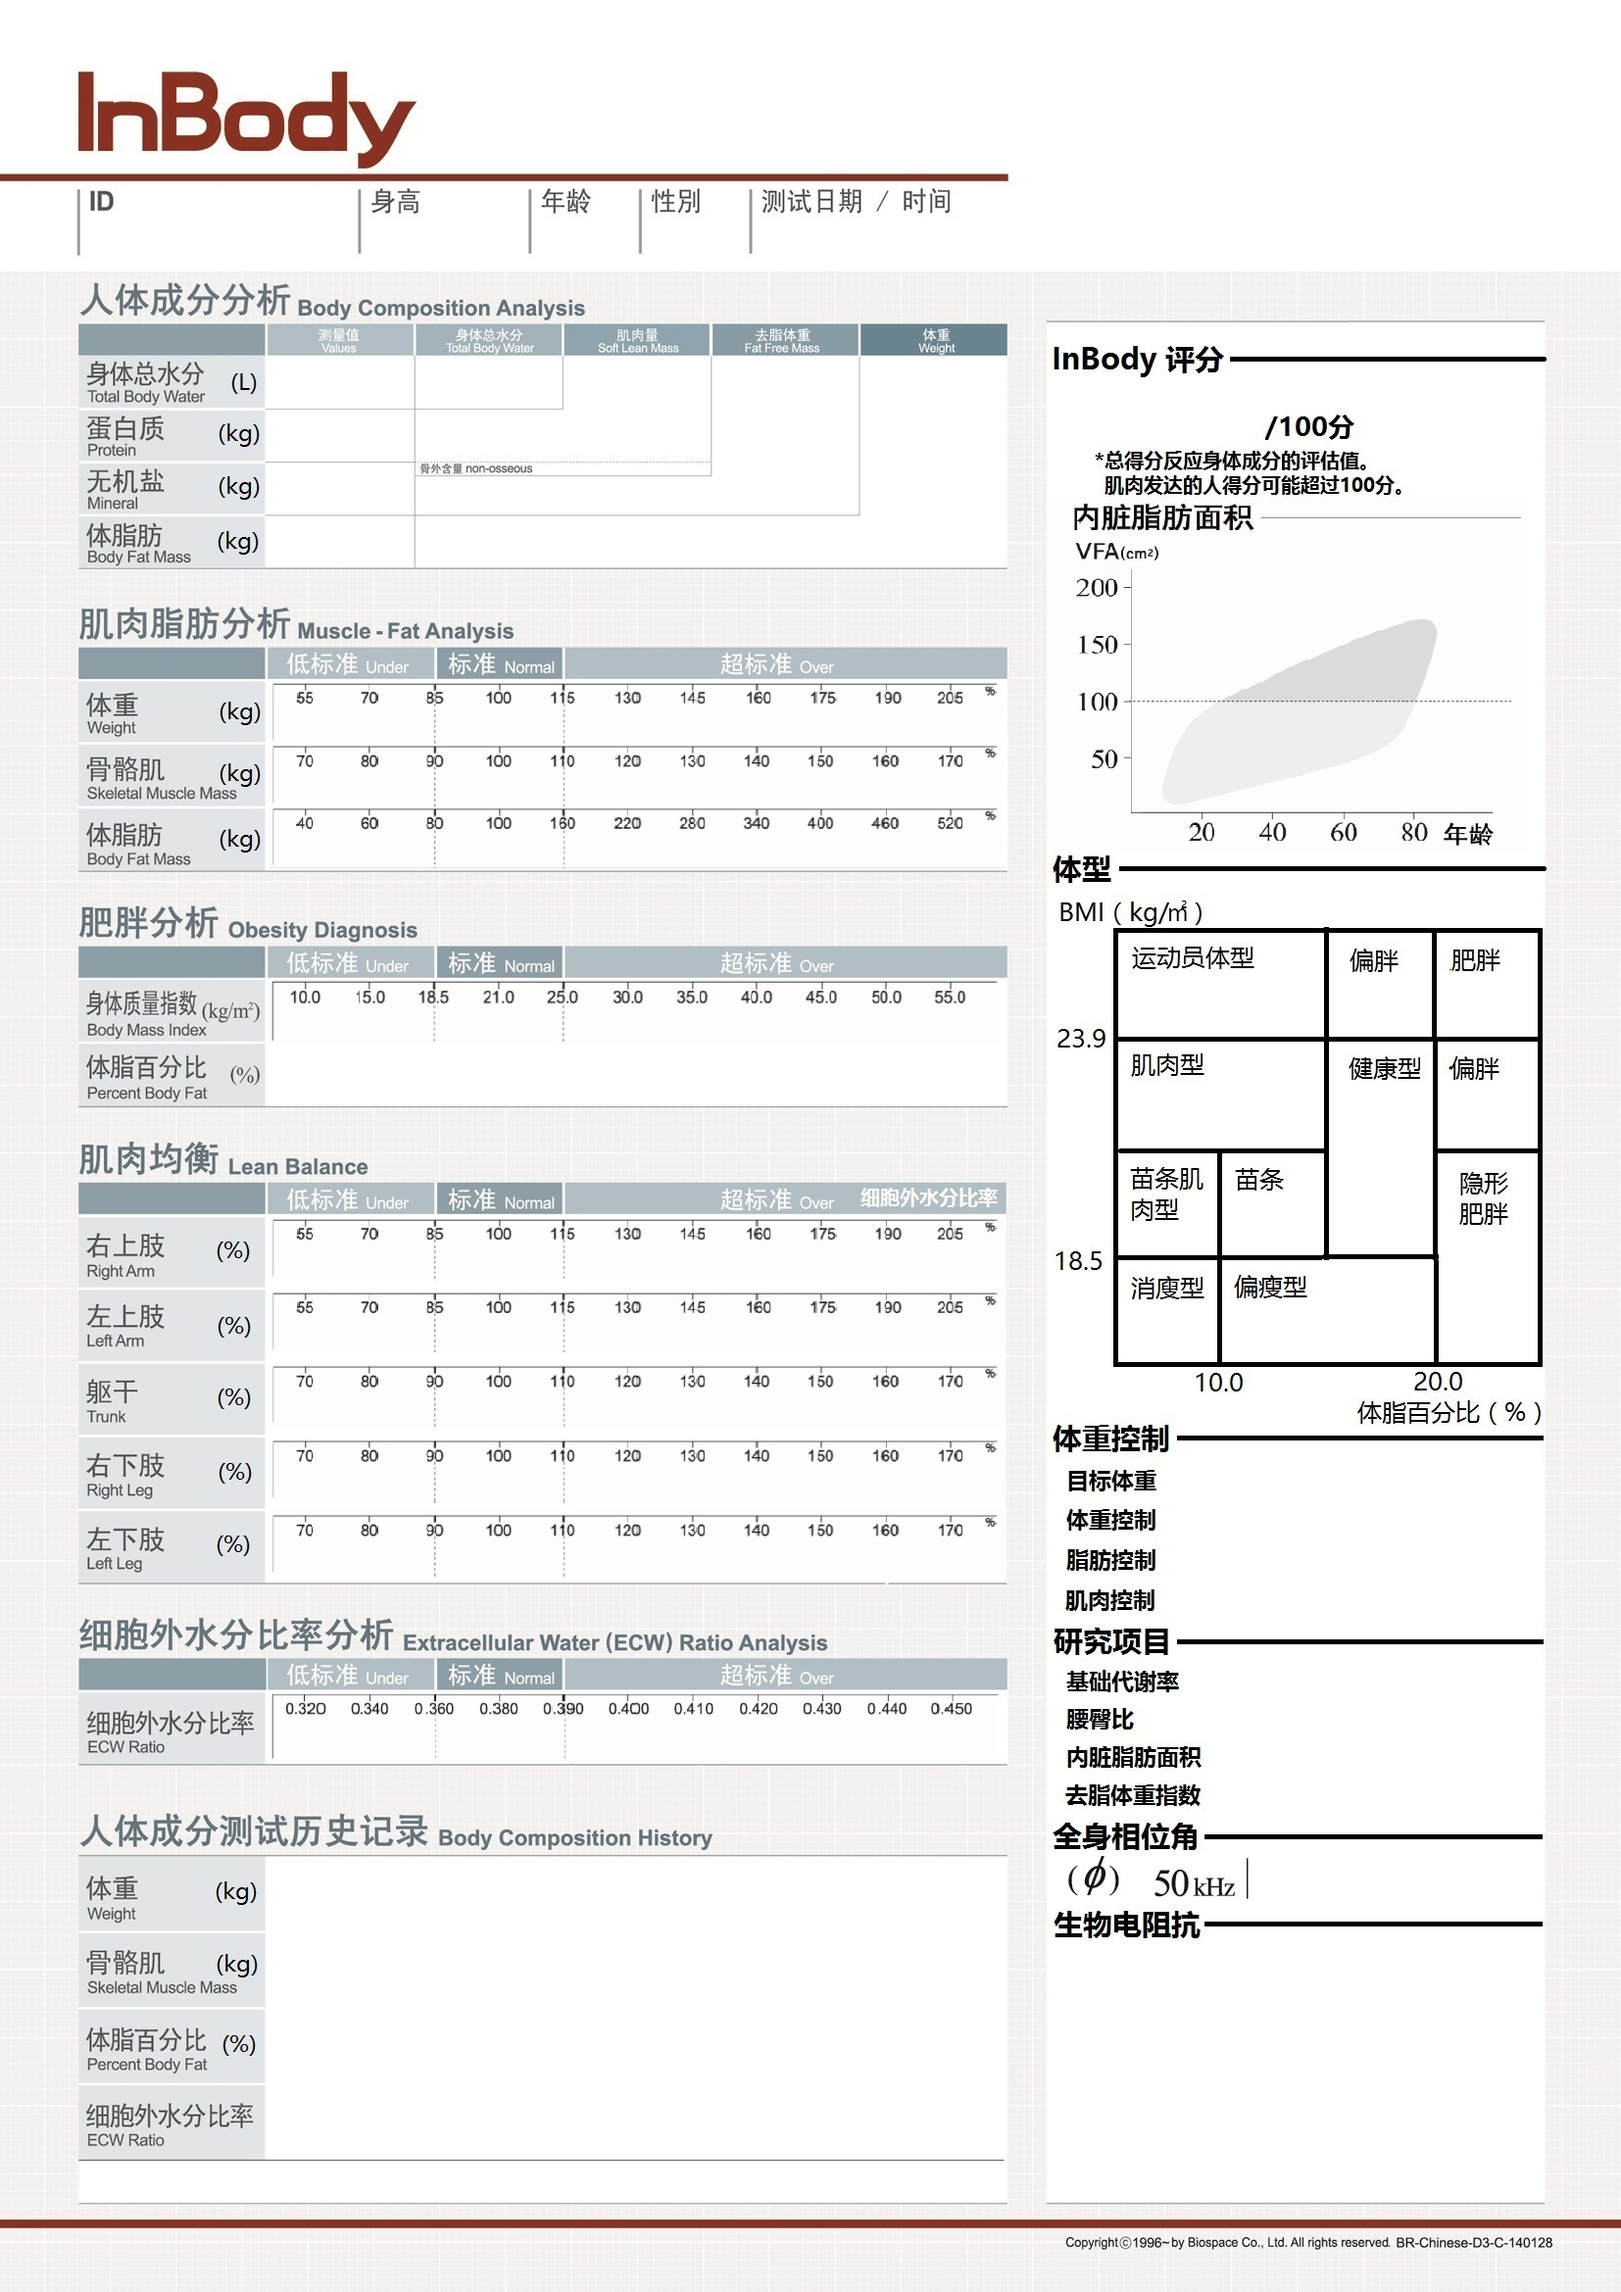
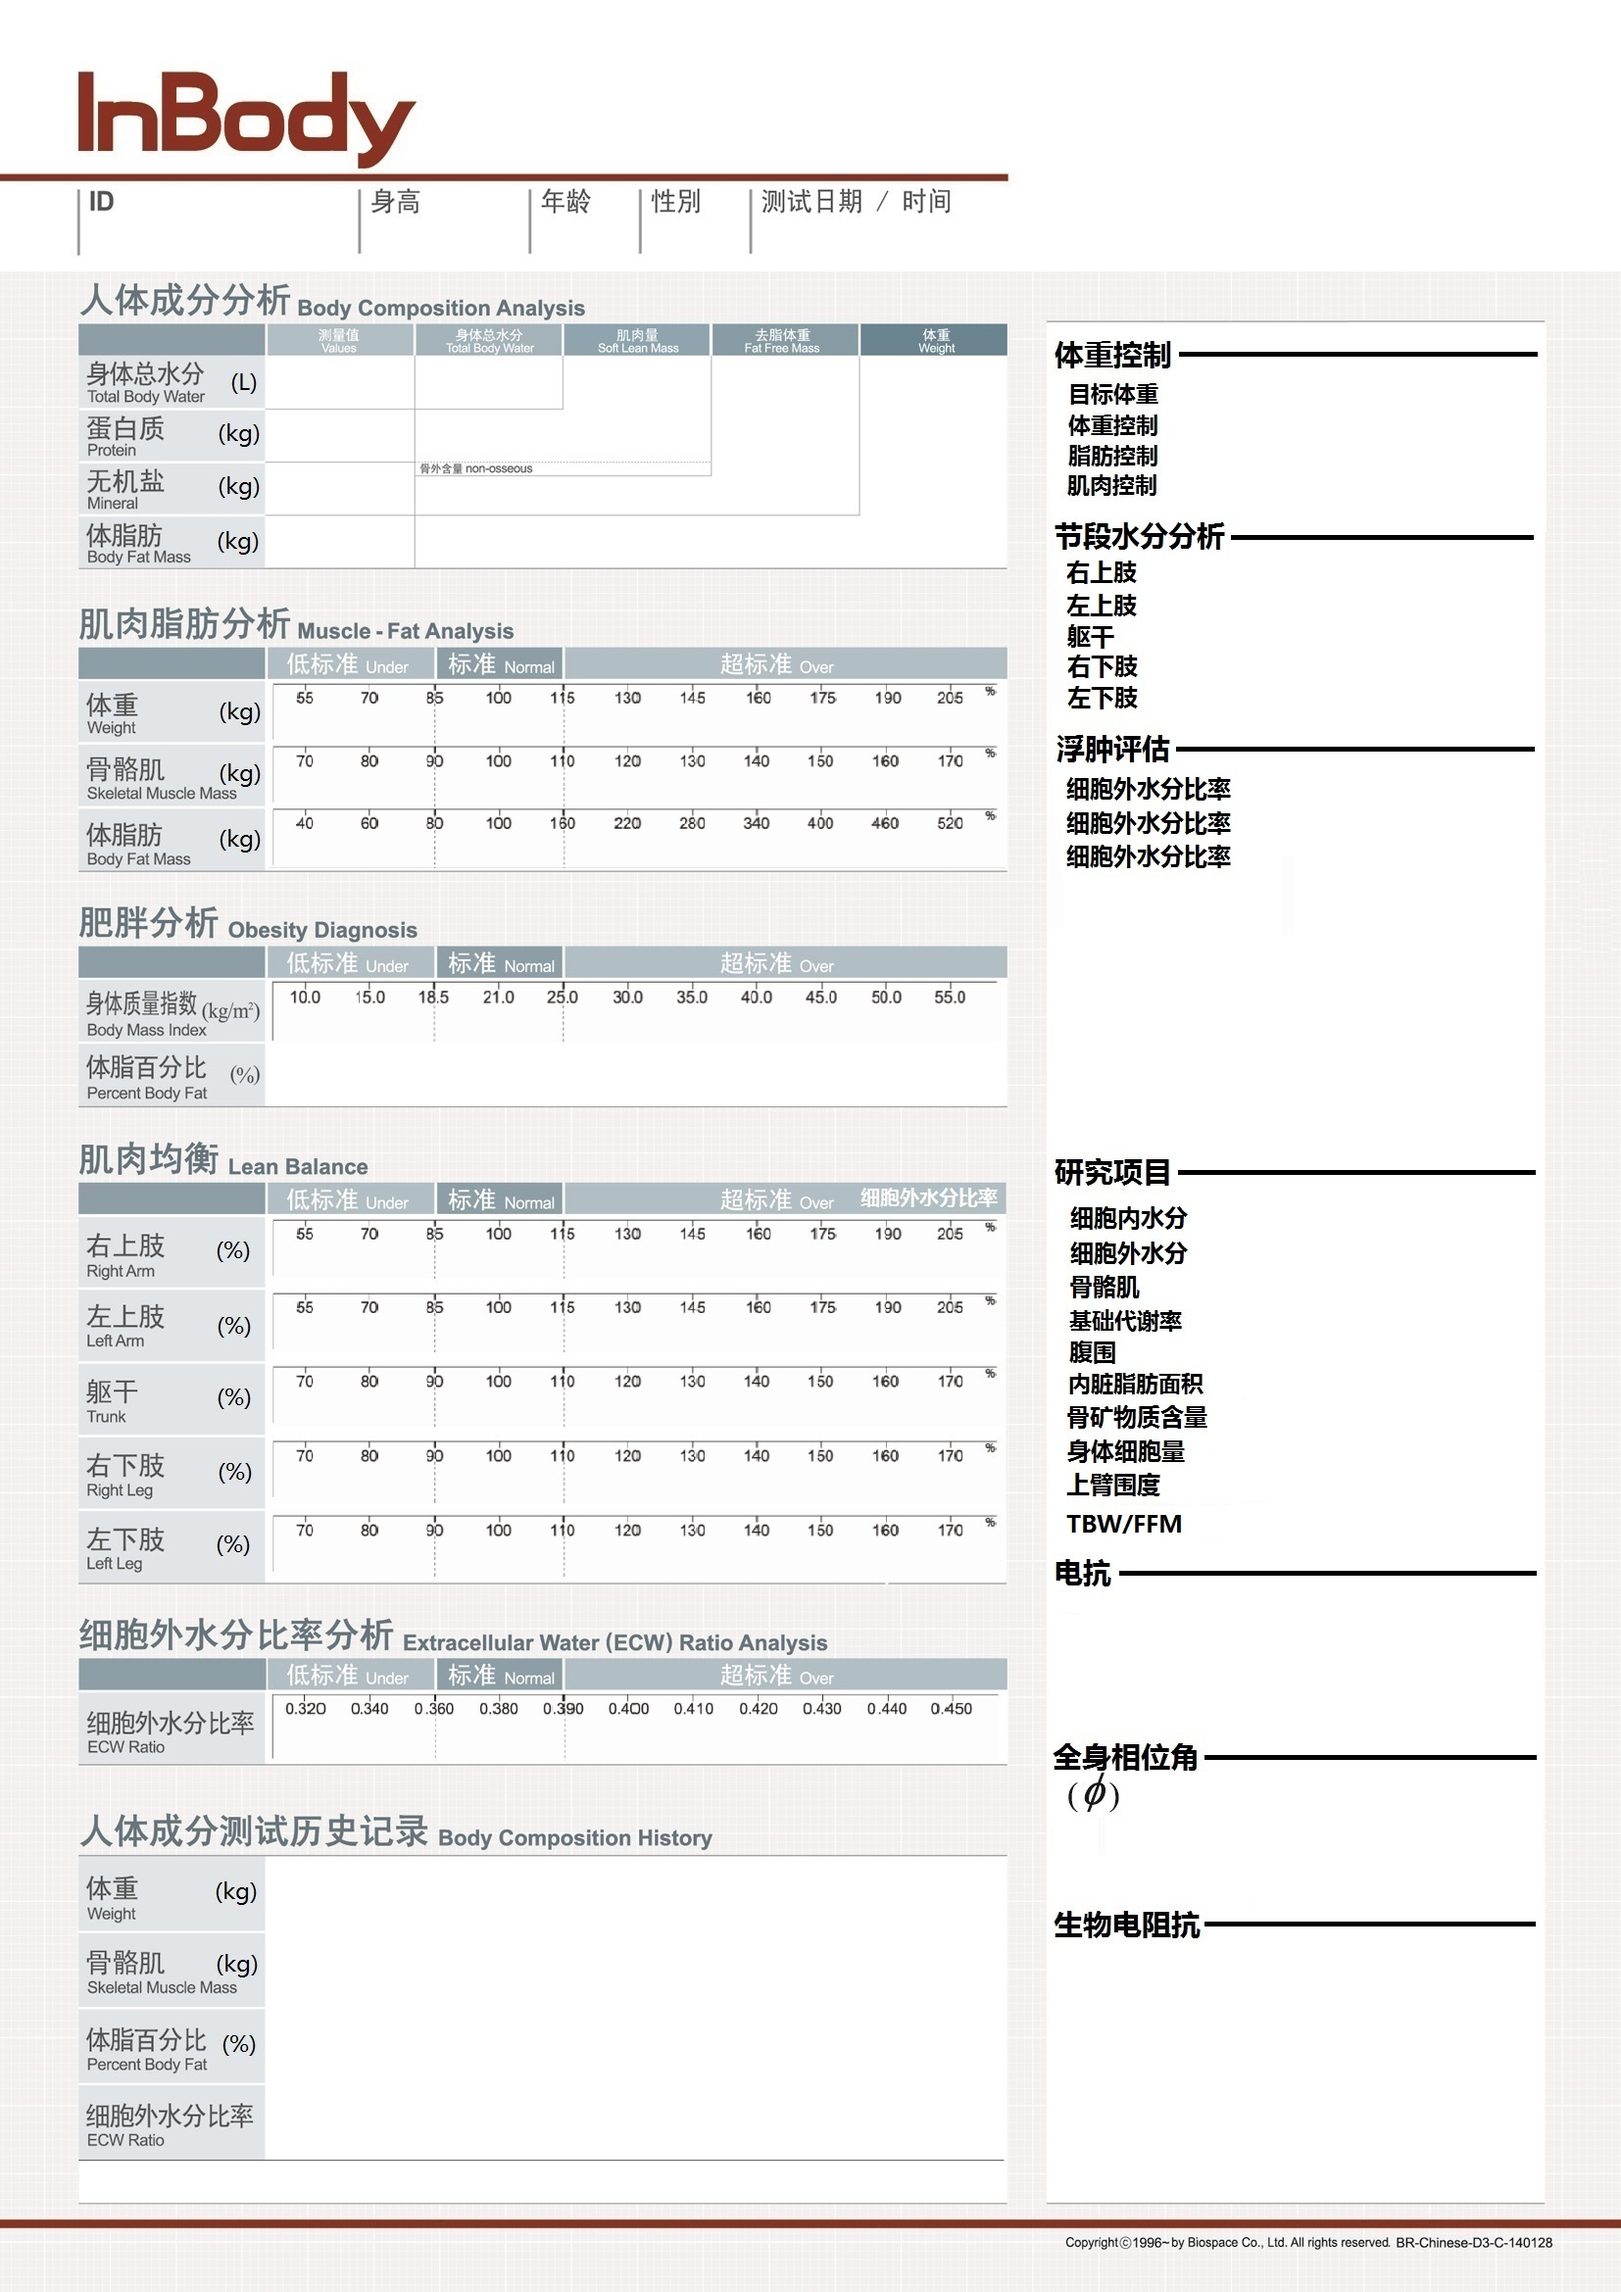
1

diff --git a/cnis/common/inbody/s10_2/s10.js b/cnis/common/inbody/s10_2/s10.js
@@ -102,7 +102,7 @@ s10.createPrintPage = function () {
     //LODOP.SET_PRINT_PAGESIZE(0,0,0,getSelectedPageSize());
     LODOP.SET_PRINT_PAGESIZE(util.printerSetting.Orient, util.printerSetting.PageWidth, util.printerSetting.PageHeigth, util.printerSetting.PageName);
 
-    LODOP.ADD_PRINT_SETUP_BKIMG("<img border='0' src='s10模板.jpg?v=7'>");
+    LODOP.ADD_PRINT_SETUP_BKIMG("<img border='0' src='s10模板.jpg?v=9'>");
     LODOP.SET_SHOW_MODE("BKIMG_WIDTH","210mm");
     LODOP.SET_SHOW_MODE("BKIMG_HEIGHT","297mm");
     LODOP.SET_SHOW_MODE("BKIMG_IN_PREVIEW",true);
@@ -209,54 +209,58 @@ s10.createPrintPage = function () {
     s10.loadChart();
 
     // //右边栏
-    // LODOP.ADD_PRINT_TEXT(197,585,100,20,s10.patient.HealthScore); //分值
-    // LODOP.SET_PRINT_STYLEA(0,"FontSize",18.5);
-
-    // //内脏脂肪面积
-    // var vfa = s10.report[30].ItemValue;
-    // var age = s10.report[5].ItemValue;
-    // var xZero = 546;
-    // var x100 = 721;
-    // var yZero = 386;
-    // var y200 = 276;
-    // var x = xZero + (x100 - xZero) / 100 * age;
-    // var y = yZero + (y200 - yZero) / 200 * vfa;
-    // LODOP.ADD_PRINT_TEXT(y,x,100,20,"+"); 
-    // LODOP.SET_PRINT_STYLEA(0,"FontSize",18.5);
-
-    // //体型
-    // var bmi = s10.report[23].ItemValue;
-    // var PBF = s10.report[24].ItemValue;
-    // var x10 = 590;
-    // var x20 = 696;
-    // var y185 = 604;
-    // var y239 = 497;
-    // var xx = (x20 - x10) / 10; //每个刻度的长度
-    // var yy = (y239 - y185) / 5.4; //每个刻度的长度
-    // x = (x10 - 10 * xx) + xx * PBF;
-    // y = (y185 - 18.5 * yy) + yy * bmi;
-    // LODOP.ADD_PRINT_TEXT(y,x,100,20,"+"); 
-    // LODOP.SET_PRINT_STYLEA(0,"FontSize",23.5);
-
     // //体重控制
     // LODOP.ADD_PRINT_TEXT(720,621,100,20,s10.report[204].ItemValue + " kg"); //目标体重
     // LODOP.ADD_PRINT_TEXT(740,621,100,20,s10.report[205].ItemValue + " kg"); //体重控制
     // LODOP.ADD_PRINT_TEXT(760,621,100,20,s10.report[206].ItemValue + " kg"); //脂肪控制
     // LODOP.ADD_PRINT_TEXT(780,621,100,20,s10.report[207].ItemValue + " kg"); //肌肉控制
 
+    //节段水分分析
+    var jd = s10.toFixed2(93) + " L （" + s10.range(136, 137) + "）";
+    LODOP.ADD_PRINT_TEXT(275,608,150,20,jd); //右上肢
+    jd = s10.toFixed2(94) + " L （" + s10.range(136, 137) + "）";
+    LODOP.ADD_PRINT_TEXT(293,608,150,20,jd); //左上肢
+    jd = s10.toFixed2(95) + " L （" + s10.range(138, 139) + "）";
+    LODOP.ADD_PRINT_TEXT(310,608,150,20,jd); //躯干
+    jd = s10.toFixed2(96) + " L （" + s10.range(140, 141) + "）";
+    LODOP.ADD_PRINT_TEXT(327,608,150,20,jd); //右下肢
+    jd = s10.toFixed2(97) + " L （" + s10.range(140, 141) + "）";
+    LODOP.ADD_PRINT_TEXT(344,608,150,20,jd); //左下肢
+
     // //研究项目
-    // LODOP.ADD_PRINT_TEXT(819,621,100,20,s10.report[28].ItemValue + " kcal"); //基础代谢率
-    // LODOP.ADD_PRINT_TEXT(839,621,142,20,s10.report[25].ItemValue + " （" + s10.report[163].ItemValue + "~" + s10.report[162].ItemValue + ")"); //腰臀比
-    // LODOP.ADD_PRINT_TEXT(859,621,100,20,s10.report[30].ItemValue + " c㎡"); //内脏脂肪面积
-    // var itemValue = s10.report[20].ItemValue / Math.pow(s10.report[4].ItemValue / 100,2)
-    // LODOP.ADD_PRINT_TEXT(879,621,100,20,itemValue.toFixed(2) + " kg/㎡"); //去脂体重指数 去脂体重/身高平方
+    var yjxm = s10.toFixed2(2) + " L （" + s10.range(70, 69) + "）";
+    LODOP.ADD_PRINT_TEXT(593,608,170,20,yjxm); //细胞内水分
+    yjxm = s10.toFixed2(3) + " L （" + s10.range(72, 71) + "）";
+    LODOP.ADD_PRINT_TEXT(610,608,170,20,yjxm); //细胞外水分
+    yjxm = s10.toFixed2(12) + " kg （" + s10.range(80, 79) + "）";
+    LODOP.ADD_PRINT_TEXT(627,608,170,20,yjxm); //骨骼肌
+    yjxm = s10.toFixed2(35) + " kcal";
+    LODOP.ADD_PRINT_TEXT(644,608,170,20,yjxm); //基础代谢率
+    // yjxm = s10.toFixed2(35) + " cm";
+    // LODOP.ADD_PRINT_TEXT(661,608,170,20,yjxm); //腹围
+    yjxm = s10.toFixed2(38) + " cm²";
+    LODOP.ADD_PRINT_TEXT(674,608,170,20,yjxm); //内脏脂肪面积
+    yjxm = s10.toFixed2(10) + " kg （" + s10.range(90, 89) + "）";
+    LODOP.ADD_PRINT_TEXT(691,608,170,20,yjxm); //骨矿物质含量
+    yjxm = s10.toFixed2(34) + " kg （" + s10.range(88, 87) + "）";
+    LODOP.ADD_PRINT_TEXT(708,608,170,20,yjxm); //身体细胞量
+    yjxm = s10.toFixed2(34) + " cm";
+    LODOP.ADD_PRINT_TEXT(725,608,170,20,yjxm); //上臂围度
+    yjxm = s10.toFixed2(144) + " %";
+    LODOP.ADD_PRINT_TEXT(742,608,170,20,yjxm); //TBW/FFM
 
-    // //全身相位角
-    // LODOP.ADD_PRINT_TEXT(914,647,100,20,s10.report[487].ItemValue + " °"); 
-    // LODOP.SET_PRINT_STYLEA(0,"FontSize",15.5);
+    //全身相位角
+    var style = $("#style1")[0].outerHTML;
+    $("#RA50").html(s10.toFixed2(121));
+    $("#LA50").html(s10.toFixed2(118));
+    $("#TR50").html(s10.toFixed2(120));
+    $("#RL50").html(s10.toFixed2(122));
+    $("#LL50").html(s10.toFixed2(119));
+    LODOP.ADD_PRINT_HTM("237mm","139mm","64mm","12mm",style + $("#divXwj")[0].outerHTML); 
 
-    // var dzk = s10.loadDZk();
-    // LODOP.ADD_PRINT_HTM("253mm","138mm","64mm","43mm", dzk);
+    //电阻抗
+    var dzk = s10.loadDZk();
+    LODOP.ADD_PRINT_HTM("253mm","139mm","64mm","43mm", dzk);
 }
 
 s10.toFixed2 = function(index){
@@ -289,7 +293,7 @@ s10.rangeWidth2 = function(value, s1, s2){
 
 s10.loadDZk = function(){
     var dzkObj = {};
-    for(var i = 344; i <= 383; i++){
+    for(var i = 39; i <= 68; i++){
         dzkObj[s10.report[i].ItemName] = s10.toFixed2(i);
     }
     var style = $("#style1")[0].outerHTML;

diff --git a/cnis/common/inbody/s10_2/s10.php b/cnis/common/inbody/s10_2/s10.php
@@ -50,7 +50,7 @@ function randerBodyCallBack(){
     <font id="labelTip" color="red"></font>
     <br/>    
 
-<div style="display:none">
+<div style="display:none2">
 
 <div id="reportTitle" style="font-size:12pt;font-weight:bold;text-align: center;">
 重庆医科大学附属第三医院<br/>
@@ -60,12 +60,12 @@ function randerBodyCallBack(){
 
 <?php
 $arr = array(
-    1 => "1Khz",
-    5 => "5Khz",
-    50 => "50Khz",
+    1 => "1KHz",
+    5 => "5KHz",
+    50 => "50KHz",
     250 => "250KHz",
     500 => "500KHz",
-    1000 => "1000KHz"
+    "1M" => "1000KHz"
 );
 ?>
 <div id="divDzk">
@@ -83,17 +83,38 @@ foreach ($arr as $key => $value) {
 ?>
 <tr>
     <td><?php echo $value?></td>
-    <td>{<?php echo $key?>khz-RA Impedance}</td>
-    <td>{<?php echo $key?>khz-LA Impedance}</td>
-    <td>{<?php echo $key?>khz-TR Impedance}</td>
-    <td>{<?php echo $key?>khz-RL Impedance}</td>
-    <td>{<?php echo $key?>khz-LL Impedance}</td>
+    <td>{RA<?php echo $key?>}</td>
+    <td>{LA<?php echo $key?>}</td>
+    <td>{TR<?php echo $key?>}</td>
+    <td>{RL<?php echo $key?>}</td>
+    <td>{LL<?php echo $key?>}</td>
 </tr>
-<?php 
+<?php  
 }
 ?>
 </table>
 </div>
+
+<br>
+<table id="divXwj">
+<tr>
+<th></th>
+<th>右上肢</th>
+<th>左上肢</th>
+<th>躯干</th>
+<th>右下肢</th>
+<th>左下肢</th>
+</tr>
+<tr>
+<td>50KHz</td>
+<td id="RA50"></td>
+<td id="LA50"></td>
+<td id="TR50"></td>
+<td id="RL50"></td>
+<td id="LL50"></td>
+</tr>
+</table>
+
 
 </div>
 
